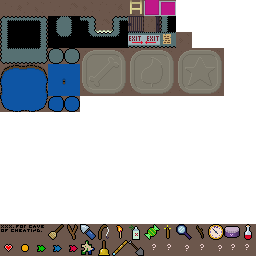
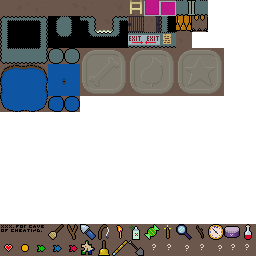
crypto sidequest doors

Changed region(s): [[0.6875, 0.0, 0.8125, 0.125]]

diff --git a/src/game/camera.c b/src/game/camera.c
@@ -520,6 +520,35 @@ void camera_update(double elapsed) {
   }
 }
 
+/* Dark overlay sprites.
+ * When Dot walks in a dark room there may be sprites above her.
+ * But we yoink her and rerender after, because she is supposed to remain visible above the darkness.
+ * So what about the overlay bit that partially occludes her?
+ * We'll rerender every sprite above layer 100, with a global tint.
+ * WARNING: This will go bad if the sprites override graf's tint.
+ */
+ 
+static void camera_render_dark_overlay_sprites(int alpha) {
+  struct sprite **spritev=GRP(visible)->sprv;
+  int spritec=GRP(visible)->sprc;
+  int spritep=spritec;
+  while ((spritep>0)&&(spritev[spritep-1]->layer>100)) spritep--;
+  if (spritep>=spritec) return;
+  graf_set_tint(&g.graf,0x00000000|alpha);
+  for (;spritep<spritec;spritep++) {
+    struct sprite *sprite=spritev[spritep];
+    int dstx=(int)(sprite->x*NS_sys_tilesize)-g.camera.rx;
+    int dsty=(int)(sprite->y*NS_sys_tilesize)-g.camera.ry;
+    if (sprite->type->render) {
+      sprite->type->render(sprite,dstx,dsty);
+    } else {
+      graf_set_image(&g.graf,sprite->imageid);
+      graf_tile(&g.graf,dstx,dsty,sprite->tileid,sprite->xform);
+    }
+  }
+  graf_set_tint(&g.graf,0);
+}
+
 /* Darkness and light.
  */
  
@@ -563,10 +592,8 @@ static void camera_render_darkness() {
     }
     if ((darkness-=g.camera.lightness)<0.0) darkness=0.0;
     int alpha=(int)(darkness*255.0);
-    if (alpha>0) {
-      if (alpha>0xff) alpha=0xff;
-      graf_fill_rect(&g.graf,0,0,FBW,FBH,0x00000000|alpha);
-    }
+    if (alpha>0xff) alpha=0xff;
+    graf_fill_rect(&g.graf,0,0,FBW,FBH,0x00000000|alpha);
     // Hero renders on top of the darkness.
     if (GRP(hero)->sprc>=1) {
       struct sprite *sprite=GRP(hero)->sprv[0];
@@ -578,6 +605,7 @@ static void camera_render_darkness() {
         graf_set_image(&g.graf,sprite->imageid);
         graf_tile(&g.graf,dstx,dsty,sprite->tileid,sprite->xform);
       }
+      camera_render_dark_overlay_sprites(alpha);
     }
   
   /* Flashing in the light.

diff --git a/src/game/sprite/sprite_ornament2x2.c b/src/game/sprite/sprite_ornament2x2.c
@@ -1,0 +1,27 @@
+/* sprite_ornament2x2.c
+ * No behavior.
+ * Just renders 2x2 tiles offset by a half-tile (so, centered on the spawn point).
+ */
+
+#include "game/bellacopia.h"
+
+struct sprite_ornament2x2 {
+  struct sprite hdr;
+};
+
+#define SPRITE ((struct sprite_ornament2x2*)sprite)
+
+static void _ornament2x2_render(struct sprite *sprite,int x,int y) {
+  const int ht=NS_sys_tilesize>>1;
+  graf_set_image(&g.graf,sprite->imageid);
+  graf_tile(&g.graf,x-ht,y-ht,sprite->tileid+0x00,0);
+  graf_tile(&g.graf,x+ht,y-ht,sprite->tileid+0x01,0);
+  graf_tile(&g.graf,x-ht,y+ht,sprite->tileid+0x10,0);
+  graf_tile(&g.graf,x+ht,y+ht,sprite->tileid+0x11,0);
+}
+
+const struct sprite_type sprite_type_ornament2x2={
+  .name="ornament2x2",
+  .objlen=sizeof(struct sprite_ornament2x2),
+  .render=_ornament2x2_render,
+};

diff --git a/src/game/shared_symbols.h b/src/game/shared_symbols.h
@@ -192,6 +192,7 @@
 #define NS_sprtype_toast       12 /* (u32)0 */
 #define NS_sprtype_princess    13 /* (u32)0 */
 #define NS_sprtype_setfld      14 /* (u16:fld) (u16)0 */
+#define NS_sprtype_ornament2x2 15 /* (u32)0 */
 #define FOR_EACH_sprtype \
   _(dummy) \
   _(hero) \
@@ -207,7 +208,8 @@
   _(tolltroll) \
   _(toast) \
   _(princess) \
-  _(setfld)
+  _(setfld) \
+  _(ornament2x2)
   
 #define NS_battle_fishing 1
 #define NS_battle_chopping 2
@@ -293,6 +295,9 @@
 #define NS_fld_jailkey 37
 #define NS_fld_kidnapped 38
 #define NS_fld_escaped 39
+#define NS_fld_bonedoor 40
+#define NS_fld_leafdoor 41
+#define NS_fld_stardoor 42
 
 /* "fld16" are 16 unsigned bits each.
  */

diff --git a/README.md b/README.md
@@ -23,10 +23,6 @@ Requires [Egg](https://github.com/aksommerville/egg2) to build.
 
 ## TODO
 
-- [x] Gobbling: Can't pull the last item off the table!
-- [x] Goblin cave: Try making the whole thing dark, with lots of firepots. Must be able to reach entrance, jail, and Skull Lake without matches.
-- [x] Ooops I forgot to make the real sprites for erudition contest
-- [x] Monster battles should sometimes reward a heart, if you need one.
 - [ ] Refactor the battle mode to orthogonalize skin and control: Skin is (Monster,Dot,Princess) for each side, and Control is (Man,CPU) for each side.
 - - Ultimately I'd like 2-player mode to let you choose your hero.
 - - And might like to add a Dot-vs-(CPU)Princess side quest after rescuing her. "Hey let's play that one game again".
@@ -34,12 +30,6 @@ Requires [Egg](https://github.com/aksommerville/egg2) to build.
 - - Do finish the goblin games first as is, then update.
 - - [ ] After this refactor, rewrite the placeholder and incorporate all the boilerplate I've been repeating on each goblin game.
 - - [ ] Ensure that we're preventing the Princess from entering battles that don't support cpu-vs-cpu. The battles between the jail and the castle must support cpu-vs-cpu.
-- [x] After a wee change to hero->blocked, now she jitters sometimes on first touching a wall.
-- - Due to off-axis correction. New policy: Off-axis correction counts as movement. You're not "blocked" until fudge brings you to a standstill.
-- [x] If you get killed in the goblins' cave before escaping, you should spawn in the jail, not at home.
-- - Need a "trigger activity once" POI. And we'll start the kidnapping quest the same way.
-- [x] Seems like playing Arcade Mode kills the saved game sometimes. Maybe all the time.
-- - Update: It happens when you enter Arcade Mode and play one, before doing Story Mode. Story Mode first, it seems to persist as expected.
 - [ ] Tree stories. These don't go in regular inventory. Need a list of them somewhere in the pause modal, where you can replay.
 - [ ] `modal_story.c:story_render_overlay()`: Cache overlay texture.
 - [ ] Friendly UI for editing saved games. (non-public, obviously)
@@ -75,20 +65,6 @@ Requires [Egg](https://github.com/aksommerville/egg2) to build.
 - - Can we just mark her as "never delete due to distance"?
 - [ ] Toll Troll and the Mayor's Bridge should be passes thru a solid mass, so you can't broom over them.
 
-- Second batch of minigames: The Eleven Goblin Games
-- [x] gs- Throwing: Loblin
-- [x] gs- Stealing: Roblin
-- [x] gs- Regex: Globlin. ~Skipping this because I have no idea what to do. If nothing comes to me, drop it.~
-- - Show a jasmine unit test like `expect( LITERAL_STRING ).toMatch( REGEX )`, and you have to select the one wrong character in REGEX.
-- [x] gs- Racketeering: Moblin
-- [x] gs- Laziness: Sloblin
-- [x] gs- Hiring: Joblin. Another tricky one. Come back to it.
-- [x] gs- Gobbling: Goblin
-- [x] gs- Erudition: Snoblin
-- [x] gs- Crying: Soblin
-- [x] gs- Cobbling: Coblin
-- [x] gs- Apples: Boblin
-
 - [ ] Crypto side quest.
 - - Clues to the Bone and Leaf rooms are by Skull Lake. Encrypted, plus you can't read them in the dark.
 - - Bone and Leaf tasks should both be "Use item X twice while standing on the seal.".
@@ -100,8 +76,6 @@ Requires [Egg](https://github.com/aksommerville/egg2) to build.
 - For exploration some time in the uncertain future.
 - [ ] Usable IP for the erudition contest.
 - [ ] Might be cool to re-engage with the Princess after her quest. Could do further side quests like "will you show me the jungle temple?"
-- [x] There's room for badges under the currency counters in the inventory vellum. Maybe for the flowers? Or keys, something like that.
-- - `vellum_inventory.c:inventory_rebuild_extra()`, using for jailkey, and we should follow the same pattern for similar items and achievements.
 - [ ] Is it possible to reach inconsistent states by pausing while item in progress?
 - [ ] Spread barrels out. It's OK to cluster them near the knitter, but the cluster in Fractia right now is annoying.
 - [ ] Remove the fake French text, or even better, get it translated correctly.
@@ -153,7 +127,7 @@ Requires [Egg](https://github.com/aksommerville/egg2) to build.
 - [ ] Run for mayor => no prize
 - [x] Hat the barrels => Bell
 - [ ] Catch em all => (incremental)
-- [ ] Rescue the Princess => purse+100
+- [x] Rescue the Princess => purse+100
 - [ ] Decipher the goblins' text => Shovel
 - [ ] Escape the labyrinth => no prize?
 - [x] Pay the toll trolls => no prize
